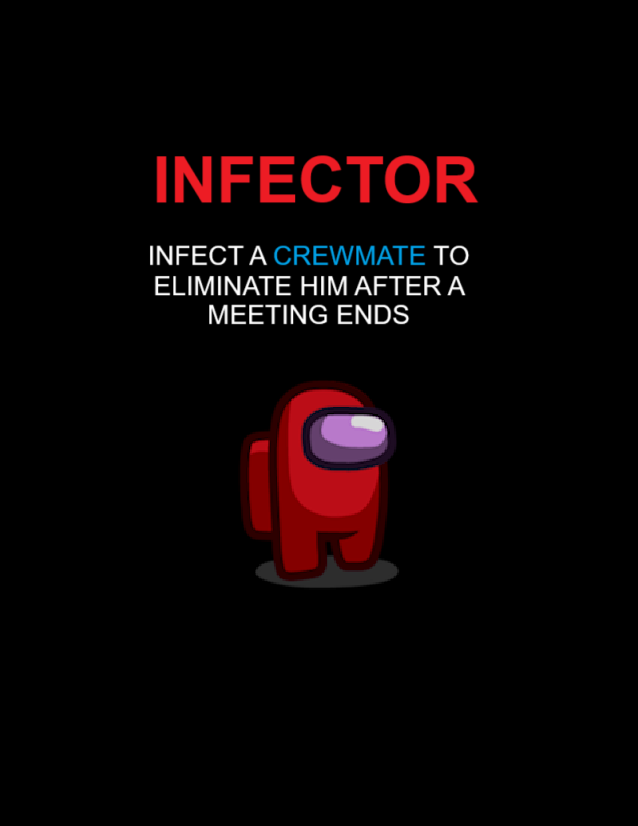
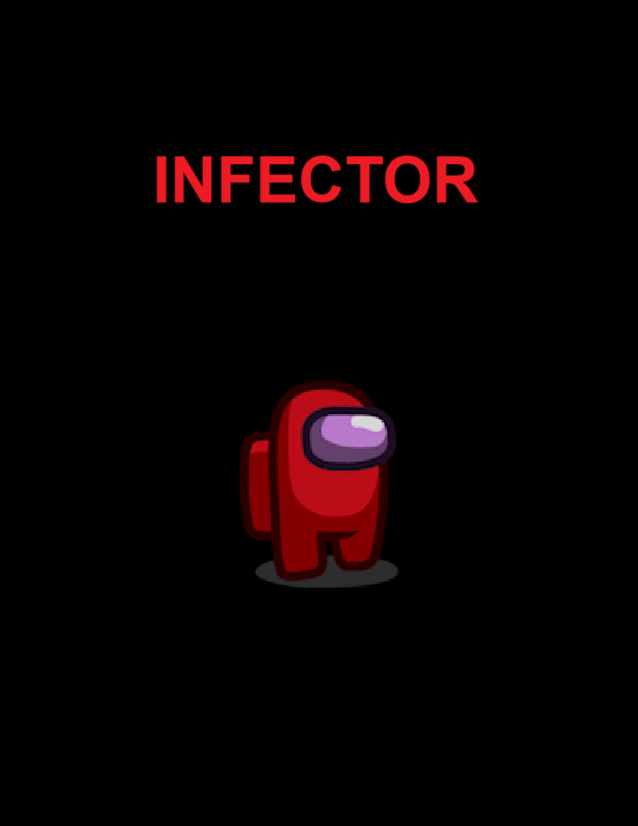
Bit picure adjutey

Changed region(s): [[0.2382, 0.2724, 0.7445, 0.3935]]

diff --git a/README.md b/README.md
@@ -1,22 +1,29 @@
 # Mega Roles Mod
 A mod with some roles that could be added in future Among Us updates. Crewmate AND  Neutral roles will show up as an Engineer while Impostor ones show up as Impostor.
 
-<img src="Influencer.png" width="200">
+<p style="margin-top: 40px;">
+  <img src="Influencer.png" width="200">
+</p>
 
 Influencer is a crewmate role that can take photos(until set limit) to reveal them in a meeting and potentially catch Neutrals and Impostors. Try to be in group with somebody until you gather enough information for the crew and some Neutrals to them winning with you.
 
-
-<img src="Infector.png" width="200">
+<p style="margin-top: 40px;">
+  <img src="Infector.png" width="250">
+</p>
 
 Infector is an impostor role that can poison players to eliminate them with a set delay after a meeting ending. Don't walk back to missed players to poison them, that will be sus.
 
 
-<img src="Evil Ghost.png" width="200">
+<p style="margin-top: 40px;">
+  <img src="Evil Ghost.png" width="200">
+</p>
 
 Evil ghost is a neutral role that can slow down players by a set multiplier while evil ghost is alive. Curse players to blind and eliminate(after a short delay so blindness is useful) when evil ghost is d*ad. Curse everyone to win alone before crewmates or impostors reach their win requirement.
 
 
-<img src="Teleporter.png" width="200">
+<p style="margin-top: 40px;">
+  <img src="Teleporter.png" width="200">
+</p>
 
 Teleporter is a neutral role that can teleport to a random room in the map by completing it's tasks. Use your multi-use ability to stay alive until the end to win with either of 2 other fractions that reached win req.
 
